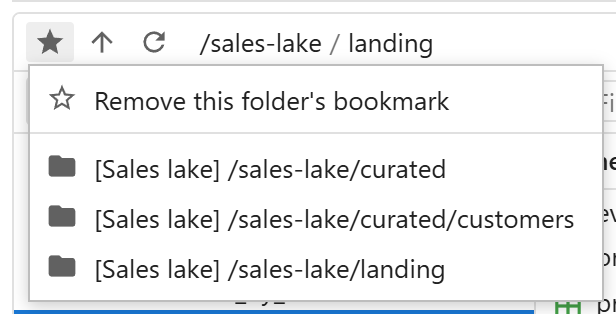
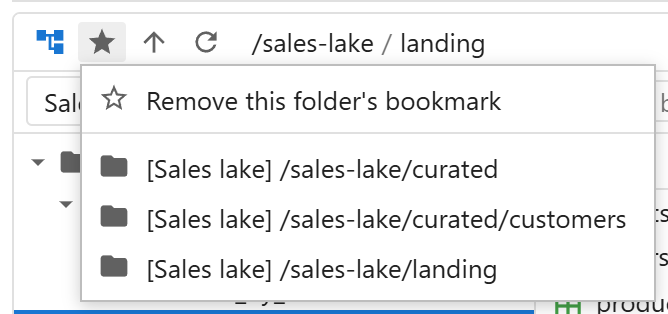
Docs' pictures retaken; a picture of the side panel
All pictures and GIFs made again with docs/scripts (the tree button in
the toolbar, the tab without the console's toolbar); a new script,
launcher_side_panel.py, makes launcher/figs/side-panel.png for the
launcher's README. Tests and scripts find the explorer's tabs in the main
area: the side bar's tab has the same name.

Claude-Session: https://claude.ai/code/session_01HAwtBQoU26mZV3X6NRDYj5

diff --git a/docs/scripts/launcher_side_panel.py b/docs/scripts/launcher_side_panel.py
@@ -1,0 +1,39 @@
+"""launcher/figs/side-panel.png, in the launcher's README: the side panel in
+JupyterLab's left side bar, its file selected, beside the tab its View button
+opened in the data browser.
+
+uv run --group docs docs/scripts/launcher_side_panel.py
+"""
+
+from __future__ import annotations
+
+from typing import TYPE_CHECKING
+
+import _lab
+from _lab import box, shot
+
+if TYPE_CHECKING:
+    from _lab import Lab
+
+
+def make(lab: Lab) -> None:
+    with lab.page(900, 560) as page:
+        page.goto(lab.url())
+        page.locator(".jp-SideBar .lm-TabBar-tab[title='Storage Explorer']").click()
+        side = page.locator(".jse-side-panel .jse-browser")
+        rows = side.locator(".jse-list tbody tr")
+        rows.first.wait_for(timeout=90_000)
+        rows.filter(has=page.get_by_text("curated", exact=True)).dblclick()
+        row = rows.filter(has=page.get_by_text("orders.parquet", exact=True))
+        row.click()
+        view = side.locator(".jse-status-bar .jse-preview-btn")
+        view.filter(has_text="View (Parquet)").wait_for()
+        view.click()
+        page.locator(".jse-query-tab .jse-query-status").wait_for(timeout=60_000)
+        _lab.calm(page, 1500)
+        _, _, x1, y1 = box(page.locator("#jp-main-dock-panel"))
+        shot(page, _lab.LAUNCHER_FIGS / "side-panel.png", (0, 0, x1, y1), pad=0)
+
+
+if __name__ == "__main__":
+    _lab.run(make)

diff --git a/docs/scripts/file_transfer_gif.py b/docs/scripts/file_transfer_gif.py
@@ -73,9 +73,9 @@ def make(lab: Lab) -> None:
         page.keyboard.press("Control+Shift+L")
         page.wait_for_selector(".jp-LauncherCard:visible", timeout=30000)
         bottom = open_tab(page, film)
-        page.locator(".lm-TabBar-tab", has_text="Storage Explorer").last.click(
-            button="right"
-        )
+        page.locator(
+            "#jp-main-dock-panel .lm-TabBar-tab", has_text="Storage Explorer"
+        ).last.click(button="right")
         page.locator(".lm-Menu-itemLabel", has_text="Split Tab").first.hover()
         page.get_by_role("menuitem", name="Down", exact=True).click()
         page.mouse.move(WIDTH / 2, HEIGHT / 2)

diff --git a/tests/browser/smoke.py b/tests/browser/smoke.py
@@ -1170,7 +1170,9 @@ def drag_between_tabs(lab: Lab, page: Page) -> None:
     expect(page.locator(".jse-launcher-panel")).to_have_count(2, timeout=30_000)
     # Side by side: the second tab dragged to the right edge of the main area
     # (JupyterLab 4.0's tab menu has no "Split Tab").
-    page.locator(".lm-TabBar-tab", has_text="Storage Explorer").last.hover()
+    page.locator(
+        "#jp-main-dock-panel .lm-TabBar-tab", has_text="Storage Explorer"
+    ).last.hover()
     dock = page.locator("#jp-main-dock-panel").bounding_box()
     assert dock is not None
     page.mouse.down()

diff --git a/docs/scripts/storage_explorer_gif.py b/docs/scripts/storage_explorer_gif.py
@@ -89,7 +89,11 @@ def make(lab: Lab) -> None:
         film.snap(1200)
 
         # Back in the explorer, whose preview shows the file as saved.
-        film.click(page.locator(".lm-TabBar-tab", has_text="Storage Explorer").first)
+        film.click(
+            page.locator(
+                "#jp-main-dock-panel .lm-TabBar-tab", has_text="Storage Explorer"
+            ).first
+        )
         page.wait_for_timeout(1000)
         film.snap(1000)
         changes = (

diff --git a/docs/scripts/make_all.py b/docs/scripts/make_all.py
@@ -13,6 +13,7 @@ import file_transfer_gif
 import hero
 import launcher_item
 import launcher_settings
+import launcher_side_panel
 import storage_explorer_gif
 import unsafe
 import using
@@ -25,6 +26,7 @@ SCRIPTS = (
     data_explorer,
     launcher_item,
     launcher_settings,
+    launcher_side_panel,
     storage_explorer_gif,
     data_explorer_gif,
     file_transfer_gif,

diff --git a/docs/scripts/README.md b/docs/scripts/README.md
@@ -20,6 +20,7 @@ the pictures are taken at 2× (`data-explorer.png`, `launcher.png` and the GIFs 
 | `data_explorer.py`        | `docs/figs/data-explorer.png`                                         |
 | `launcher_item.py`        | `launcher/figs/launcher.png`                                          |
 | `launcher_settings.py`    | `launcher/figs/settings-*.png` (the settings button, `launcher.py`)   |
+| `launcher_side_panel.py`  | `launcher/figs/side-panel.png` (the side panel, and a tab from View)  |
 | `storage_explorer_gif.py` | `docs/figs/storage-explorer.gif`                                      |
 | `data_explorer_gif.py`    | `docs/figs/data-explorer.gif`                                         |
 | `file_transfer_gif.py`    | `docs/figs/file-transfer.gif` ("File transfer between file systems")  |

diff --git a/launcher/README.md b/launcher/README.md
@@ -14,6 +14,9 @@ as the tab: the list of a folder, without the tree or the preview panel; files y
 double-click, or right-click → **View in new tab**) open in new tabs. Its kernel
 starts when you first open it, and it stays open after a page reload.
 
+<img src="https://raw.githubusercontent.com/sugibuchi/jupyter-storage-explorer/main/launcher/figs/side-panel.png" width="867" alt="The side panel in JupyterLab's left side bar, a Parquet file selected, beside the tab its View button opened in the data browser">
+
+
 It also integrates every Storage Explorer, in its tab or in a notebook, with JupyterLab:
 
 - **Drag and drop**: drag files onto JupyterLab's file browser to download them there.

diff --git a/docs/storage-explorer.md b/docs/storage-explorer.md
@@ -147,7 +147,7 @@ of files and folders, their total size, and the oldest and newest files.
 Right-click a folder → **Add bookmark**. ☆ lists them; click one to open it, right-click it for Copy URL (Copy path
 for a local folder) and Delete bookmark.
 
-<img src="figs/using-bookmarks.png" width="308" alt="The bookmarks menu">
+<img src="figs/using-bookmarks.png" width="334" alt="The bookmarks menu">
 
 ### Copy, cut and paste
 
